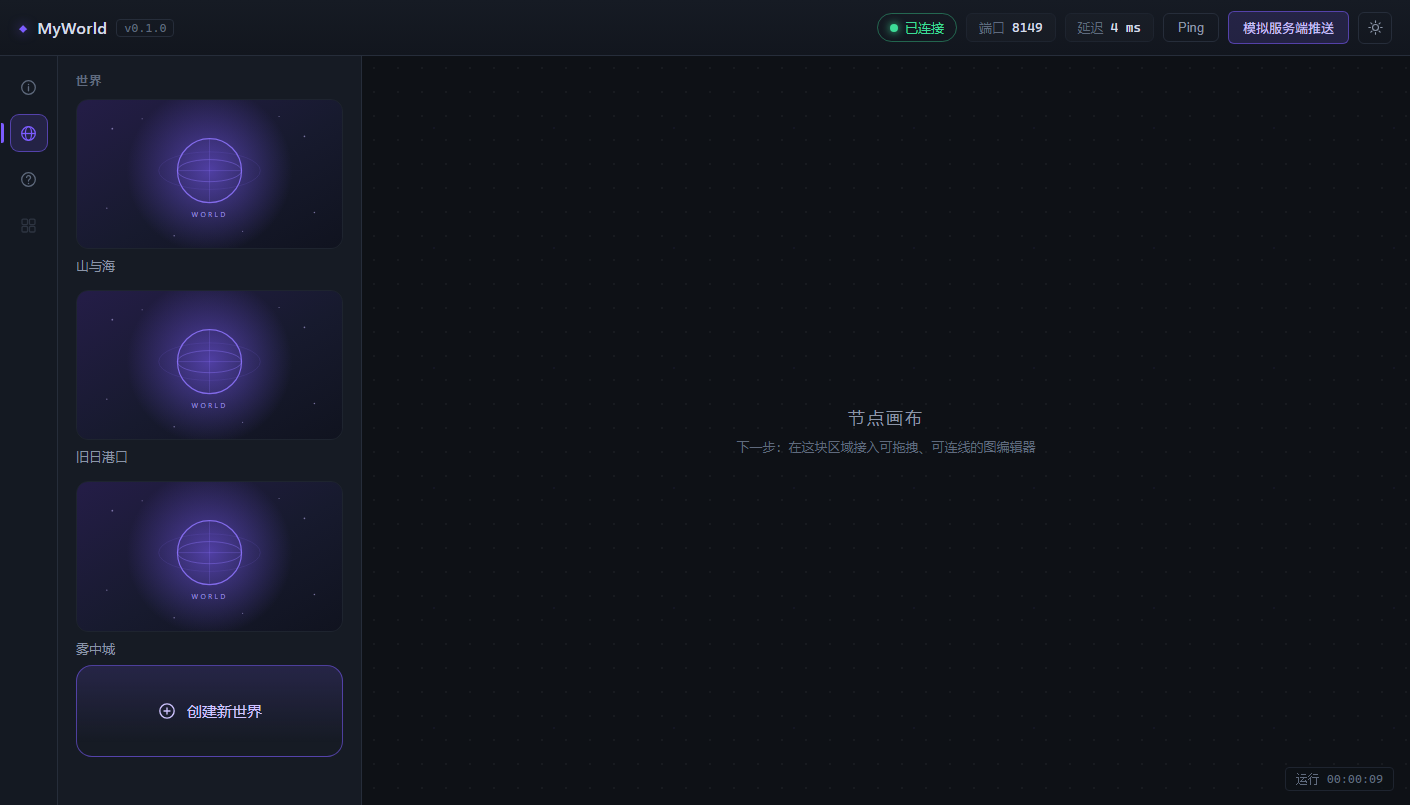
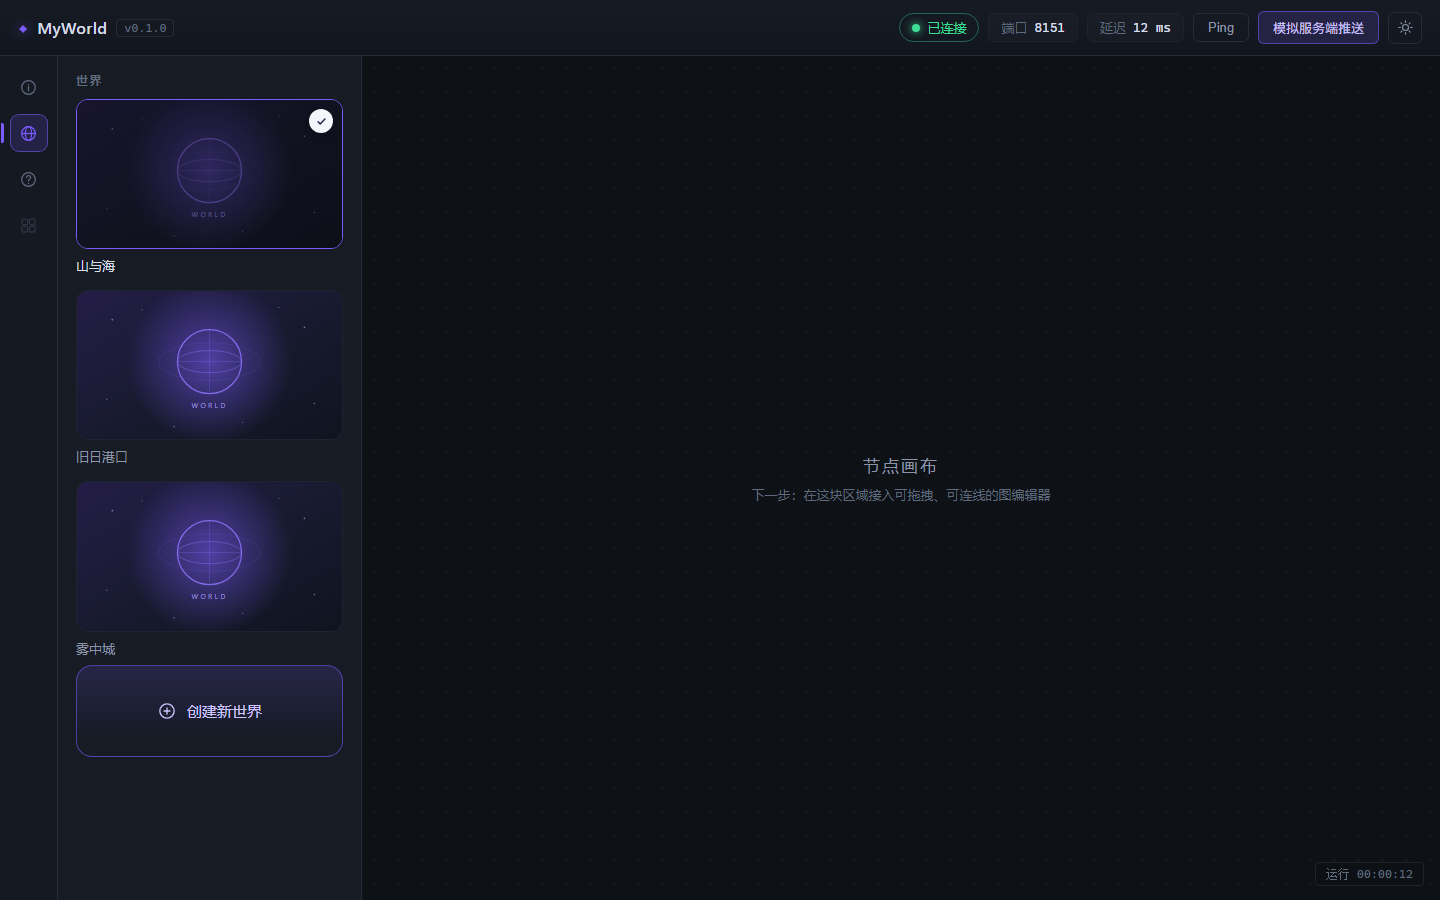
feat: 世界选中态改为暗色蒙版 + 浅色对号圆圈
- 删掉「已选择：data/…」那行提示文字
- 选中的缩略图盖一层 46% 暗色蒙版，右上角浮出 24px 浅色圆形对号
- 未选中保持细边框与悬停上浮；选中时边框转强调色
- 文档截图同步更新

diff --git a/web/css/style.css b/web/css/style.css
@@ -560,12 +560,13 @@ body {
 }
 
 .world-thumb {
+  position: relative;
   overflow: hidden;
   aspect-ratio: var(--world-ratio);
   border: 1px solid var(--border-soft);
   border-radius: var(--radius-md);
   background: var(--chip-bg);
-  transition: border-color 0.15s, box-shadow 0.15s, transform 0.1s;
+  transition: border-color 0.15s, transform 0.1s;
 }
 
 .world-thumb img {
@@ -580,9 +581,49 @@ body {
   transform: translateY(-1px);
 }
 
+/* 选中态：暗色蒙版 + 浅色圆圈对号 */
+.world-thumb::after {
+  content: "";
+  position: absolute;
+  inset: 0;
+  z-index: 0;
+  background: rgba(8, 10, 16, 0.46);
+  opacity: 0;
+  transition: opacity 0.16s ease;
+  pointer-events: none;
+}
+
+.world-card.is-selected .world-thumb::after {
+  opacity: 1;
+}
+
+.world-check {
+  position: absolute;
+  top: 9px;
+  right: 9px;
+  z-index: 1;
+  display: none;
+  place-items: center;
+  width: 24px;
+  height: 24px;
+  border-radius: 50%;
+  background: #f3f6fb;
+  color: #241d47;
+  box-shadow: 0 2px 10px rgba(0, 0, 0, 0.35);
+  pointer-events: none;
+}
+
+.world-check svg {
+  width: 13px;
+  height: 13px;
+}
+
+.world-card.is-selected .world-check {
+  display: grid;
+}
+
 .world-card.is-selected .world-thumb {
   border-color: var(--accent);
-  box-shadow: 0 0 0 2px var(--accent-soft);
 }
 
 .world-card.is-selected .world-name {

diff --git a/web/js/app.js b/web/js/app.js
@@ -26,7 +26,6 @@
     worldError: $("worldError"),
     worldList: $("worldList"),
     worldEmpty: $("worldEmpty"),
-    worldSelected: $("worldSelected"),
   };
 
   const state = {
@@ -173,6 +172,16 @@
       name.className = "world-name";
       name.textContent = item.name;
 
+      // 选中标记：浅色圆圈 + 对号，盖在暗色蒙版之上（蒙版由 CSS 负责）
+      const check = document.createElement("span");
+      check.className = "world-check";
+      check.setAttribute("aria-hidden", "true");
+      check.innerHTML = `<svg viewBox="0 0 24 24" aria-hidden="true">
+        <path d="M5.6 12.6l4 4 8.8-9" fill="none" stroke="currentColor"
+              stroke-width="2.6" stroke-linecap="round" stroke-linejoin="round" />
+      </svg>`;
+      thumb.append(check);
+
       card.append(thumb, name);
       card.addEventListener("click", () => selectWorld(item, card));
       el.worldList.append(card);
@@ -184,8 +193,6 @@
     el.worldList.querySelectorAll(".world-card").forEach((el2) => {
       el2.classList.toggle("is-selected", el2 === node);
     });
-    el.worldSelected.hidden = false;
-    el.worldSelected.textContent = "已选择：" + item.path;
     debug("选择世界", item);
   }
 

diff --git a/web/index.html b/web/index.html
@@ -105,7 +105,6 @@
         <p class="hint" id="worldEmpty" hidden>
           还没有世界。点下面的卡片建一个，它会在 <code>data/</code> 下变成一个目录。
         </p>
-        <p class="hint" id="worldSelected" hidden></p>
 
         <div class="world-actions">
           <button class="world-create-card" id="btnCreateWorld" type="button">
